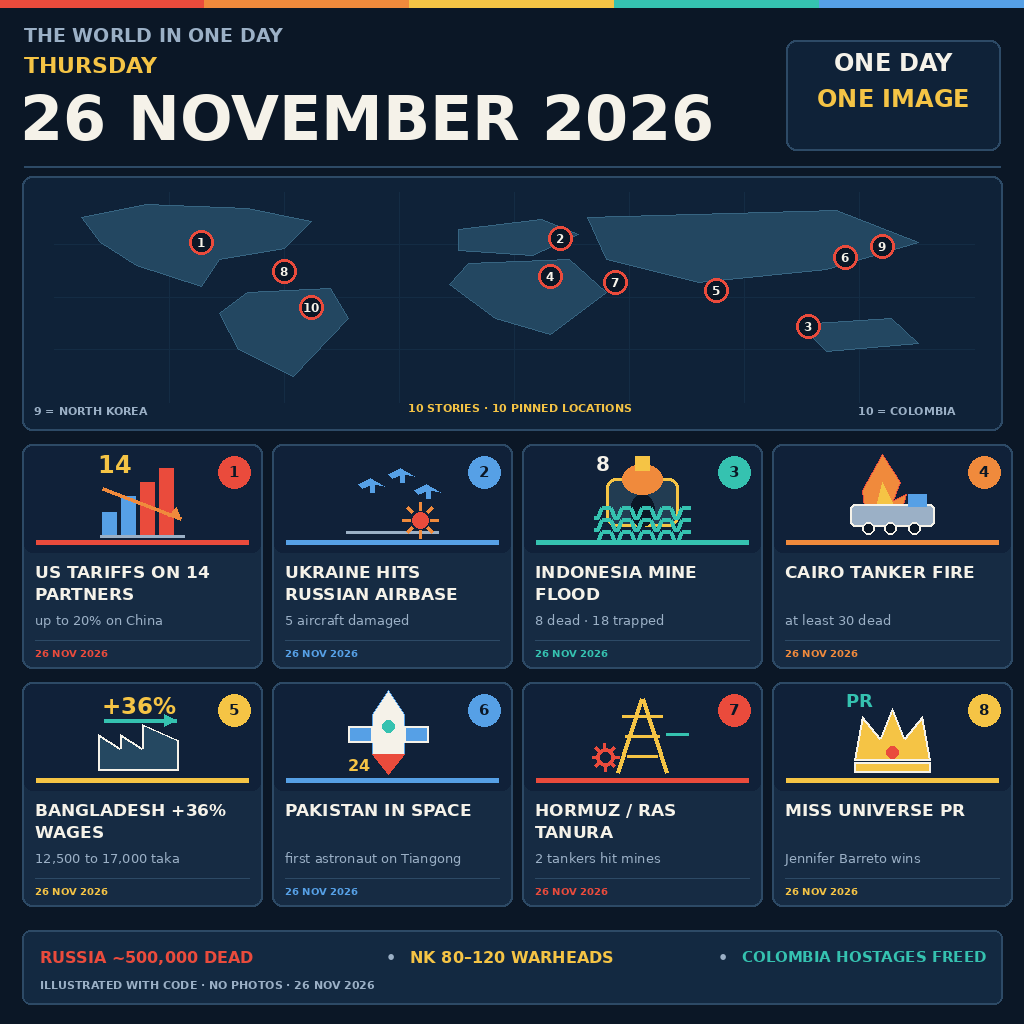
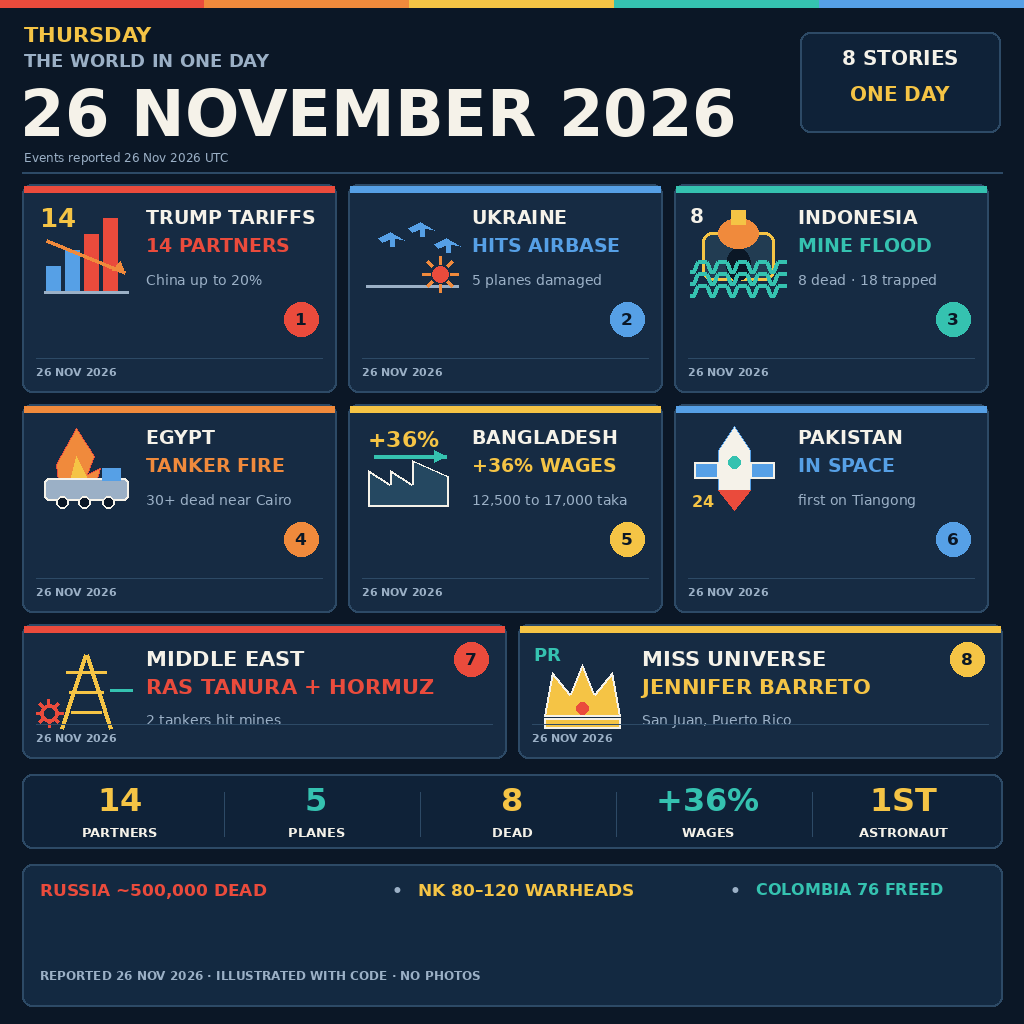
Build 26 Nov 2026 news image

diff --git a/main.ts b/main.ts
@@ -1,5 +1,5 @@
-// Entrypoint: validate the drawn poster and copy it verbatim to /output.
-// Standard library only; no clock, network or randomness in the judged path.
+// Entrypoint for the 26 November 2026 news image: validate the drawn PNG,
+// then copy those exact bytes to the output directory. Standard library only.
 
 import { copyFileSync, existsSync, mkdirSync, readFileSync, statSync } from 'node:fs';
 import { dirname, join } from 'node:path';
@@ -26,14 +26,14 @@ if (!bytes.subarray(0, 8).equals(PNG_SIGNATURE)) {
   throw new Error('entry.png is not a PNG');
 }
 
-// IHDR is always the first chunk: length(4), "IHDR", width(4), height(4).
+// IHDR is the first chunk: length(4), "IHDR", width(4), height(4), ...
 const width = bytes.readUInt32BE(16);
 const height = bytes.readUInt32BE(20);
 if (width !== SIDE || height !== SIDE) {
   throw new Error(`expected ${SIDE}x${SIDE}, got ${width}x${height}`);
 }
 
-// CRC covers the IHDR type + 13 data bytes (offset 12..28); stored at 29..32.
+// CRC covers the IHDR type plus its 13 data bytes (offsets 12..28).
 const storedCrc = bytes.readUInt32BE(29);
 if (crc32(bytes.subarray(12, 29)) !== storedCrc) {
   throw new Error('entry.png has a corrupt IHDR chunk');

diff --git a/render.py b/render.py
@@ -1,7 +1,7 @@
 #!/usr/bin/env python3
-"""Draw one 1024x1024 editorial poster for Thursday 26 November 2026.
+"""One 1024x1024 poster for 26 November 2026: 8 large stories, no fine print.
 
-All artwork is drawn with Pillow primitives from a fixed, verified story list.
+Every mark is drawn with Pillow primitives from a fixed, verified story list.
 No network, no photographs, no third-party logos.
 """
 
@@ -45,30 +45,15 @@ def tw(d: ImageDraw.ImageDraw, s: str, font: ImageFont.FreeTypeFont) -> int:
     return b[2] - b[0]
 
 
-def wrap(d: ImageDraw.ImageDraw, s: str, font: ImageFont.FreeTypeFont, width: int) -> list[str]:
-    out: list[str] = []
-    cur = ""
-    for word in s.split():
-        trial = (cur + " " + word).strip()
-        if cur and tw(d, trial, font) > width:
-            out.append(cur)
-            cur = word
-        else:
-            cur = trial
-    if cur:
-        out.append(cur)
-    return out
-
-
 # ---------------------------------------------------------------- icons ----
-# Each icon draws into a fresh transparent 100x100 tile; the caller pastes it.
+# Icons draw into a transparent 100x100 tile; the caller pastes it onto the poster.
 
 def icon_tariff(d: ImageDraw.ImageDraw) -> None:
-    d.text((6, 2), "14", font=f(24, True), fill=GOLD)
-    d.line((8, 88, 92, 88), fill=MUTED, width=3)
-    for i, h in enumerate((22, 38, 52, 66)):
-        d.rectangle((10 + i * 19, 86 - h, 24 + i * 19, 86), fill=RED if i > 1 else BLUE)
-    d.line((10, 40, 88, 70), fill=ORANGE, width=4)
+    d.text((4, 0), "14", font=f(26, True), fill=GOLD)
+    d.line((8, 90, 92, 90), fill=MUTED, width=3)
+    for i, h in enumerate((24, 40, 56, 72)):
+        d.rectangle((10 + i * 19, 88 - h, 24 + i * 19, 88), fill=RED if i > 1 else BLUE)
+    d.line((10, 38, 88, 70), fill=ORANGE, width=4)
     d.polygon([(88, 70), (76, 68), (84, 59)], fill=ORANGE)
 
 
@@ -93,7 +78,7 @@ def icon_flood(d: ImageDraw.ImageDraw) -> None:
     for y in (64, 76, 88):
         pts = [(x, y + (5 if x % 20 < 10 else -5)) for x in range(2, 100, 4)]
         d.line(pts, fill=TEAL, width=4)
-    d.text((4, 4), "8", font=f(20, True), fill=WHITE)
+    d.text((2, 2), "8", font=f(20, True), fill=WHITE)
 
 
 def icon_tanker(d: ImageDraw.ImageDraw) -> None:
@@ -109,7 +94,7 @@ def icon_tanker(d: ImageDraw.ImageDraw) -> None:
 def icon_wages(d: ImageDraw.ImageDraw) -> None:
     d.polygon([(6, 84), (6, 48), (28, 62), (28, 48), (50, 62), (50, 38),
                (86, 54), (86, 84)], fill="#254861", outline=WHITE, width=2)
-    d.text((10, 6), "+36%", font=f(23, True), fill=GOLD)
+    d.text((6, 4), "+36%", font=f(22, True), fill=GOLD)
     d.line((12, 34, 84, 34), fill=TEAL, width=4)
     d.polygon([(84, 34), (72, 28), (72, 40)], fill=TEAL)
 
@@ -120,7 +105,7 @@ def icon_space(d: ImageDraw.ImageDraw) -> None:
     d.polygon([(30, 68), (46, 88), (62, 68)], fill=RED)
     d.rectangle((6, 40, 30, 56), fill=BLUE, outline=WHITE, width=2)
     d.rectangle((62, 40, 86, 56), fill=BLUE, outline=WHITE, width=2)
-    d.text((6, 70), "24", font=f(16, True), fill=GOLD)
+    d.text((4, 70), "24", font=f(16, True), fill=GOLD)
 
 
 def icon_oil(d: ImageDraw.ImageDraw) -> None:
@@ -140,73 +125,52 @@ def icon_crown(d: ImageDraw.ImageDraw) -> None:
                (80, 30), (88, 74)], fill=GOLD, outline=WHITE, width=2)
     d.rectangle((12, 76, 88, 86), fill=GOLD, outline=WHITE, width=2)
     d.ellipse((44, 60, 56, 72), fill=RED)
-    d.text((4, 4), "PR", font=f(18, True), fill=TEAL)
+    d.text((2, 2), "PR", font=f(18, True), fill=TEAL)
 
 
-CARDS = [
-    (1, "US TARIFFS ON 14 PARTNERS", "up to 20% on China", RED, icon_tariff),
-    (2, "UKRAINE HITS RUSSIAN AIRBASE", "5 aircraft damaged", BLUE, icon_airbase),
-    (3, "INDONESIA MINE FLOOD", "8 dead · 18 trapped", TEAL, icon_flood),
-    (4, "CAIRO TANKER FIRE", "at least 30 dead", ORANGE, icon_tanker),
-    (5, "BANGLADESH +36% WAGES", "12,500 to 17,000 taka", GOLD, icon_wages),
-    (6, "PAKISTAN IN SPACE", "first astronaut on Tiangong", BLUE, icon_space),
-    (7, "HORMUZ / RAS TANURA", "2 tankers hit mines", RED, icon_oil),
-    (8, "MISS UNIVERSE PR", "Jennifer Barreto wins", GOLD, icon_crown),
+# number badge, two title lines, detail line, accent, icon
+STORIES = [
+    ("1", "TRUMP TARIFFS", "14 PARTNERS", "China up to 20%", RED, icon_tariff),
+    ("2", "UKRAINE", "HITS AIRBASE", "5 planes damaged", BLUE, icon_airbase),
+    ("3", "INDONESIA", "MINE FLOOD", "8 dead · 18 trapped", TEAL, icon_flood),
+    ("4", "EGYPT", "TANKER FIRE", "30+ dead near Cairo", ORANGE, icon_tanker),
+    ("5", "BANGLADESH", "+36% WAGES", "12,500 to 17,000 taka", GOLD, icon_wages),
+    ("6", "PAKISTAN", "IN SPACE", "first on Tiangong", BLUE, icon_space),
 ]
 
-PINS = [
-    (0.16, 0.24, "1"), (0.55, 0.22, "2"), (0.82, 0.64, "3"),
-    (0.54, 0.40, "4"), (0.72, 0.47, "5"), (0.86, 0.31, "6"),
-    (0.61, 0.43, "7"), (0.25, 0.38, "8"), (0.90, 0.26, "9"),
-    (0.28, 0.55, "10"),
+WIDE = [
+    ("7", "MIDDLE EAST", "RAS TANURA + HORMUZ", "2 tankers hit mines", RED, icon_oil),
+    ("8", "MISS UNIVERSE", "JENNIFER BARRETO", "San Juan, Puerto Rico", GOLD, icon_crown),
 ]
 
-CONTINENTS = [
-    [(0.03, 0.12), (0.10, 0.06), (0.21, 0.08), (0.28, 0.14), (0.25, 0.27),
-     (0.18, 0.32), (0.16, 0.45), (0.09, 0.35), (0.05, 0.24)],
-    [(0.21, 0.48), (0.30, 0.46), (0.32, 0.60), (0.26, 0.88), (0.20, 0.75), (0.18, 0.58)],
-    [(0.44, 0.18), (0.53, 0.13), (0.57, 0.20), (0.52, 0.30), (0.44, 0.28)],
-    [(0.45, 0.34), (0.56, 0.32), (0.60, 0.48), (0.54, 0.68), (0.48, 0.60), (0.43, 0.44)],
-    [(0.58, 0.12), (0.85, 0.09), (0.94, 0.24), (0.84, 0.37), (0.70, 0.43), (0.60, 0.32)],
-    [(0.81, 0.63), (0.91, 0.60), (0.94, 0.72), (0.84, 0.76)],
+STATS = [
+    ("14", "PARTNERS"), ("5", "PLANES"), ("8", "DEAD"),
+    ("+36%", "WAGES"), ("1ST", "ASTRONAUT"),
 ]
 
 
-def draw_map(im: Image.Image, d: ImageDraw.ImageDraw) -> None:
-    d.rounded_rectangle((22, 176, 1002, 430), radius=10, fill=PANEL, outline=CARD_EDGE, width=2)
-    bx, by, bw, bh = 54, 192, 920, 210
-    for gx in range(1, 8):
-        d.line((bx + gx * bw // 8, by, bx + gx * bw // 8, by + bh), fill="#142C44", width=1)
-    for gy in range(1, 4):
-        d.line((bx, by + gy * bh // 4, bx + bw, by + gy * bh // 4), fill="#142C44", width=1)
-    for poly in CONTINENTS:
-        pts = [(bx + int(px * bw), by + int(py * bh)) for px, py in poly]
-        d.polygon(pts, fill="#234761", outline="#376582")
-    for px, py, num in PINS:
-        cx, cy = bx + int(px * bw), by + int(py * bh)
-        d.ellipse((cx - 12, cy - 12, cx + 12, cy + 12), fill="#0B1726", outline=RED, width=3)
-        d.text((cx, cy), num, font=f(12, True), fill=WHITE, anchor="mm")
-    d.text((34, 404), "9 = NORTH KOREA", font=f(11, True), fill=MUTED)
-    d.text((858, 404), "10 = COLOMBIA", font=f(11, True), fill=MUTED)
-    d.text((520, 404), "10 STORIES · 10 PINNED LOCATIONS", font=f(11, True), fill=GOLD, anchor="mt")
-
-
-def draw_card(im: Image.Image, d: ImageDraw.ImageDraw, spec: tuple, x: int, y: int) -> None:
-    num, label, detail, color, icon = spec
-    d.rounded_rectangle((x, y, x + 240, y + 224), radius=10, fill=CARD, outline=CARD_EDGE, width=2)
-    d.rounded_rectangle((x + 2, y + 2, x + 238, y + 108), radius=8, fill="#102139")
-    d.rectangle((x + 14, y + 96, x + 226, y + 100), fill=color)
+def paste_icon(im: Image.Image, icon, x: int, y: int) -> None:
     tile = Image.new("RGBA", (100, 100), (0, 0, 0, 0))
     icon(ImageDraw.Draw(tile))
-    im.paste(tile, (x + 70, y + 4), tile)
-    d.ellipse((x + 196, y + 12, x + 228, y + 44), fill=color)
-    d.text((x + 212, y + 28), str(num), font=f(15, True), fill="#0B1726", anchor="mm")
-    lines = wrap(d, label, f(17, True), 214)
-    for i, line in enumerate(lines[:2]):
-        d.text((x + 13, y + 118 + i * 22), line, font=f(17, True), fill=WHITE)
-    d.text((x + 13, y + 168), detail, font=f(13), fill=MUTED)
-    d.line((x + 13, y + 196, x + 227, y + 196), fill=CARD_EDGE, width=1)
-    d.text((x + 13, y + 203), "26 NOV 2026", font=f(10, True), fill=color)
+    im.paste(tile, (x, y), tile)
+
+
+def card(im: Image.Image, d: ImageDraw.ImageDraw, x: int, y: int, w: int, h: int,
+         spec: tuple, big: bool = False) -> None:
+    num, line1, line2, detail, color, icon = spec
+    d.rounded_rectangle((x, y, x + w, y + h), radius=10, fill=CARD, outline=CARD_EDGE, width=2)
+    d.rectangle((x + 2, y + 2, x + w - 2, y + 8), fill=color)
+    paste_icon(im, icon, x + 14, y + 18)
+    badge_y = y + 18 if big else y + 118
+    d.ellipse((x + w - 52, badge_y, x + w - 18, badge_y + 34), fill=color)
+    d.text((x + w - 35, badge_y + 17), num, font=f(17, True), fill="#0B1726", anchor="mm")
+    tx = x + 124
+    title_size = 21 if big else 19
+    d.text((tx, y + 22), line1, font=f(title_size, True), fill=WHITE)
+    d.text((tx, y + 50), line2, font=f(title_size, True), fill=color)
+    d.text((tx, y + 88), detail, font=f(14), fill=MUTED)
+    d.line((x + 14, y + h - 34, x + w - 14, y + h - 34), fill=CARD_EDGE, width=1)
+    d.text((x + 14, y + h - 27), "26 NOV 2026", font=f(11, True), fill=MUTED)
 
 
 def build() -> None:
@@ -216,27 +180,38 @@ def build() -> None:
     for i, col in enumerate((RED, ORANGE, GOLD, TEAL, BLUE)):
         d.rectangle((i * W // 5, 0, (i + 1) * W // 5 - 1, 7), fill=col)
 
-    d.text((24, 24), "THE WORLD IN ONE DAY", font=f(19, True), fill=MUTED)
-    d.text((24, 52), "THURSDAY", font=f(22, True), fill=GOLD)
-    d.text((20, 82), "26 NOVEMBER 2026", font=f(62, True), fill=WHITE)
-    d.rounded_rectangle((786, 40, 1000, 150), radius=10, fill=PANEL, outline=CARD_EDGE, width=2)
-    d.text((893, 62), "ONE DAY", font=f(24, True), fill=WHITE, anchor="mm")
-    d.text((893, 98), "ONE IMAGE", font=f(24, True), fill=GOLD, anchor="mm")
-    d.line((24, 166, 1000, 166), fill=CARD_EDGE, width=2)
+    d.text((24, 22), "THURSDAY", font=f(21, True), fill=GOLD)
+    d.text((24, 50), "THE WORLD IN ONE DAY", font=f(18, True), fill=MUTED)
+    d.text((20, 76), "26 NOVEMBER 2026", font=f(64, True), fill=WHITE)
+    d.text((24, 150), "Events reported 26 Nov 2026 UTC", font=f(12), fill=MUTED)
+    d.rounded_rectangle((800, 32, 1000, 132), radius=10, fill=PANEL, outline=CARD_EDGE, width=2)
+    d.text((900, 58), "8 STORIES", font=f(20, True), fill=WHITE, anchor="mm")
+    d.text((900, 94), "ONE DAY", font=f(20, True), fill=GOLD, anchor="mm")
+    d.line((22, 172, 1002, 172), fill=CARD_EDGE, width=2)
 
-    draw_map(im, d)
+    for i, spec in enumerate(STORIES):
+        col, row = i % 3, i // 3
+        card(im, d, 22 + col * 326, 184 + row * 220, 314, 208, spec)
 
-    for i, spec in enumerate(CARDS):
-        col, row = i % 4, i // 4
-        draw_card(im, d, spec, 22 + col * 250, 444 + row * 238)
+    for i, spec in enumerate(WIDE):
+        card(im, d, 22 + i * 496, 624, 484, 134, spec, big=True)
 
-    d.rounded_rectangle((22, 930, 1002, 1004), radius=8, fill="#132941", outline=CARD_EDGE, width=2)
-    d.text((40, 948), "RUSSIA ~500,000 DEAD", font=f(16, True), fill=RED)
-    d.text((386, 948), "•", font=f(16, True), fill=MUTED)
-    d.text((410, 948), "NK 80–120 WARHEADS", font=f(16, True), fill=GOLD)
-    d.text((718, 948), "•", font=f(16, True), fill=MUTED)
-    d.text((742, 948), "COLOMBIA HOSTAGES FREED", font=f(15, True), fill=TEAL)
-    d.text((40, 978), "ILLUSTRATED WITH CODE · NO PHOTOS · 26 NOV 2026", font=f(11, True), fill=MUTED)
+    d.rounded_rectangle((22, 774, 1002, 848), radius=10, fill=PANEL, outline=CARD_EDGE, width=2)
+    for i, (big, label) in enumerate(STATS):
+        cx = 22 + int(980 * (i + 0.5) / 5)
+        d.text((cx, 788), big, font=f(32, True), fill=GOLD if i % 2 == 0 else TEAL, anchor="mt")
+        d.text((cx, 828), label, font=f(13, True), fill=WHITE, anchor="mt")
+        if i:
+            d.line((cx - 92, 792, cx - 92, 836), fill=CARD_EDGE, width=1)
+
+    d.rounded_rectangle((22, 864, 1002, 1006), radius=10, fill="#132941", outline=CARD_EDGE, width=2)
+    d.text((40, 880), "RUSSIA ~500,000 DEAD", font=f(17, True), fill=RED)
+    d.text((392, 880), "•", font=f(17, True), fill=MUTED)
+    d.text((418, 880), "NK 80–120 WARHEADS", font=f(17, True), fill=GOLD)
+    d.text((730, 880), "•", font=f(17, True), fill=MUTED)
+    d.text((756, 880), "COLOMBIA 76 FREED", font=f(16, True), fill=TEAL)
+    d.text((40, 968), "REPORTED 26 NOV 2026 · ILLUSTRATED WITH CODE · NO PHOTOS",
+           font=f(12, True), fill=MUTED)
 
     im.save(OUT, "PNG", optimize=True)
     print("wrote", OUT, os.path.getsize(OUT), "bytes", im.size)

diff --git a/README.md b/README.md
@@ -5,8 +5,8 @@
 [![reward](https://make.fun/badge/news-image-20261126/dikapry/news-20261126-image/reward.svg)](https://make.fun/bounty/news-image-20261126?utm_source=github&utm_medium=readme&utm_campaign=news-image-20261126)
 
 One image summing up the world's news of Thursday 26 November 2026: a dark
-editorial poster with a stylized world map, ten numbered pins, eight illustrated
-news cards and a closing ticker. Every icon, continent and letter is drawn by
+editorial poster with eight large illustrated cards, a five-figure statistics
+strip and a three-item closing ticker. Every icon, rule and letter is drawn by
 `render.py` with Pillow primitives — no photographs, stock art or third-party
 logos. `main.ts` validates the PNG and copies it verbatim to `/output/entry.png`.
 
